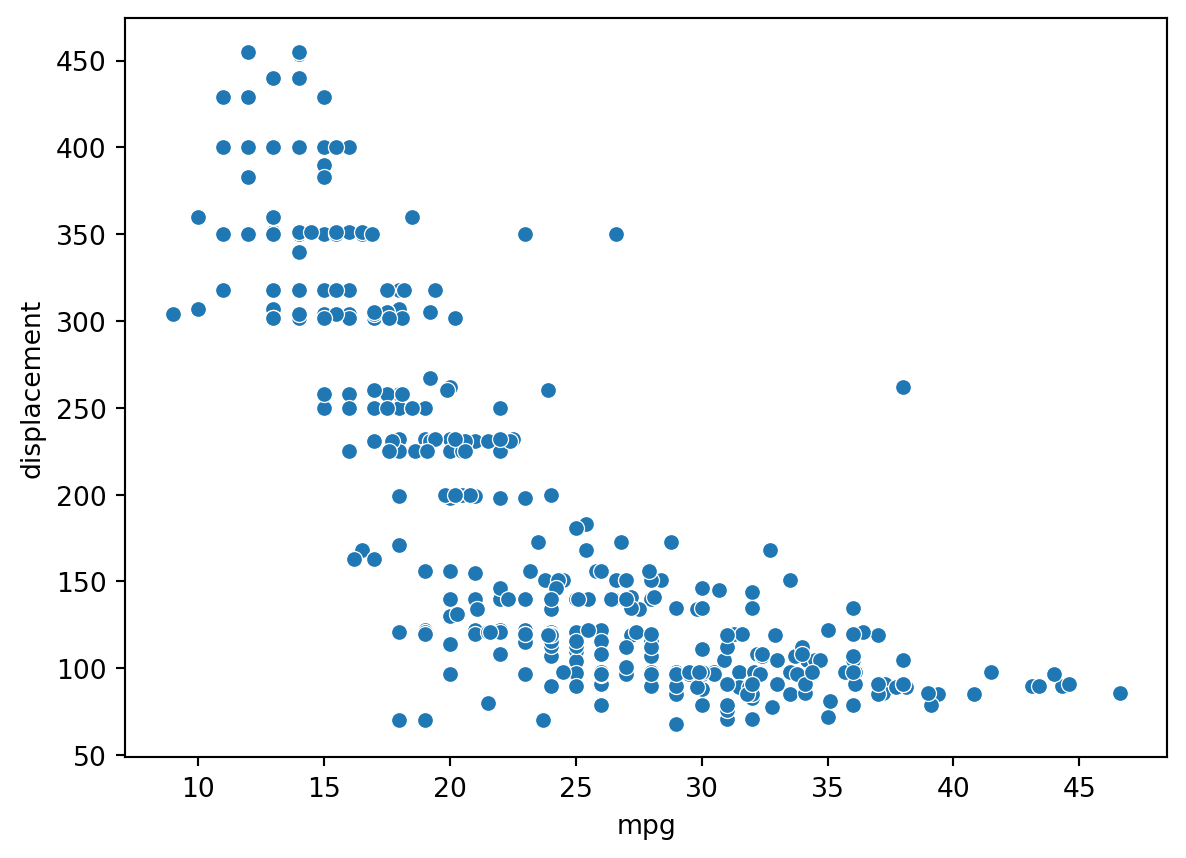
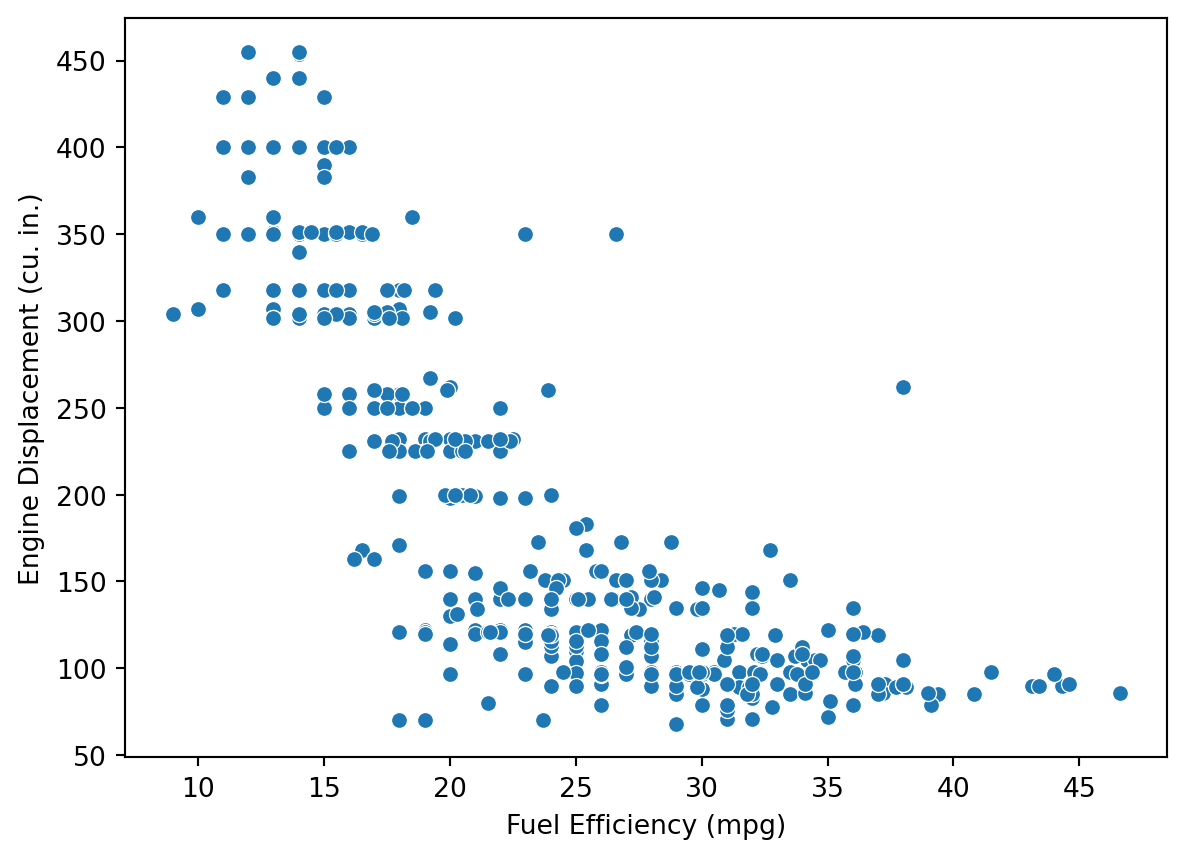
Fix reversed headers, dataset ref, and add axis labels to project1

Changed region(s): [[0.0, 0.303, 0.0312, 0.697], [0.4368, 0.9394, 0.6551, 1.0], [0.0, 0.2424, 0.0312, 0.2727]]

diff --git a/docs/projects/project1/index.html b/docs/projects/project1/index.html
@@ -2,7 +2,7 @@
 <html xmlns="http://www.w3.org/1999/xhtml" lang="en" xml:lang="en"><head>
 
 <meta charset="utf-8">
-<meta name="generator" content="quarto-1.9.13">
+<meta name="generator" content="quarto-1.9.36">
 
 <meta name="viewport" content="width=device-width, initial-scale=1.0, user-scalable=yes">
 
@@ -11,6 +11,9 @@
 
 <title>Analysis of Cars – marketing analytics</title>
 <style>
+/* Default styles provided by pandoc.
+** See https://pandoc.org/MANUAL.html#variables-for-html for config info.
+*/
 code{white-space: pre-wrap;}
 span.smallcaps{font-variant: small-caps;}
 div.columns{display: flex; gap: min(4vw, 1.5em);}
@@ -34,15 +37,14 @@ ul.task-list li input[type="checkbox"] {
 <meta name="quarto:offset" content="../../">
 <script src="../../site_libs/quarto-html/quarto.js" type="module"></script>
 <script src="../../site_libs/quarto-html/tabsets/tabsets.js" type="module"></script>
-<script src="../../site_libs/quarto-html/axe/axe-check.js" type="module"></script>
 <script src="../../site_libs/quarto-html/popper.min.js"></script>
 <script src="../../site_libs/quarto-html/tippy.umd.min.js"></script>
 <script src="../../site_libs/quarto-html/anchor.min.js"></script>
 <link href="../../site_libs/quarto-html/tippy.css" rel="stylesheet">
-<link href="../../site_libs/quarto-html/quarto-syntax-highlighting-ac077c1e730dfeb5e42400639d17284e.css" rel="stylesheet" id="quarto-text-highlighting-styles">
+<link href="../../site_libs/quarto-html/quarto-syntax-highlighting-845c23b38eaddc0f92fda52bfe77a8c8.css" rel="stylesheet" id="quarto-text-highlighting-styles">
 <script src="../../site_libs/bootstrap/bootstrap.min.js"></script>
 <link href="../../site_libs/bootstrap/bootstrap-icons.css" rel="stylesheet">
-<link href="../../site_libs/bootstrap/bootstrap-d957e14470f80fb3261a9563d4958d75.min.css" rel="stylesheet" append-hash="true" id="quarto-bootstrap" data-mode="light">
+<link href="../../site_libs/bootstrap/bootstrap-158031087360bce0ff56dc785ce39e06.min.css" rel="stylesheet" append-hash="true" id="quarto-bootstrap" data-mode="light">
 <script id="quarto-search-options" type="application/json">{
   "location": "navbar",
   "copy-button": false,
@@ -120,8 +122,8 @@ ul.task-list li input[type="checkbox"] {
     <h2 id="toc-title">On this page</h2>
    
   <ul>
-  <li><a href="#sub-header" id="toc-sub-header" class="nav-link active" data-scroll-target="#sub-header">Sub-Header</a></li>
-  <li><a href="#header" id="toc-header" class="nav-link" data-scroll-target="#header">Header</a></li>
+  <li><a href="#overview" id="toc-overview" class="nav-link active" data-scroll-target="#overview">Overview</a></li>
+  <li><a href="#analysis" id="toc-analysis" class="nav-link" data-scroll-target="#analysis">Analysis</a></li>
   </ul>
 </nav>
     </div>
@@ -159,10 +161,10 @@ ul.task-list li input[type="checkbox"] {
 </header>
 
 
-<section id="sub-header" class="level2">
-<h2 class="anchored" data-anchor-id="sub-header">Sub-Header</h2>
-<p>Here is a plot:</p>
-<div id="a49da945" class="cell" data-message="false" data-execution_count="1">
+<section id="overview" class="level2">
+<h2 class="anchored" data-anchor-id="overview">Overview</h2>
+<p>Let’s investigate the relationship between fuel efficiency (<code>mpg</code>) and engine displacement in the <strong>Auto MPG</strong> dataset.</p>
+<div id="b6f4b5fa" class="cell" data-message="false" data-execution_count="1">
 <div class="cell-output cell-output-display">
 <div>
 <figure class="figure">
@@ -172,9 +174,9 @@ ul.task-list li input[type="checkbox"] {
 </div>
 </div>
 </section>
-<section id="header" class="level2">
-<h2 class="anchored" data-anchor-id="header">Header</h2>
-<p>Let’s investigate the relationship between fuel efficiency (<code>mpg</code>) and engine displacement (<code>disp</code>) from the <code>mtcars</code> dataset. Those variables have a correlation of np.float64(-0.81).</p>
+<section id="analysis" class="level2">
+<h2 class="anchored" data-anchor-id="analysis">Analysis</h2>
+<p>Those variables have a correlation of np.float64(-0.81).</p>
 
 
 </section>
